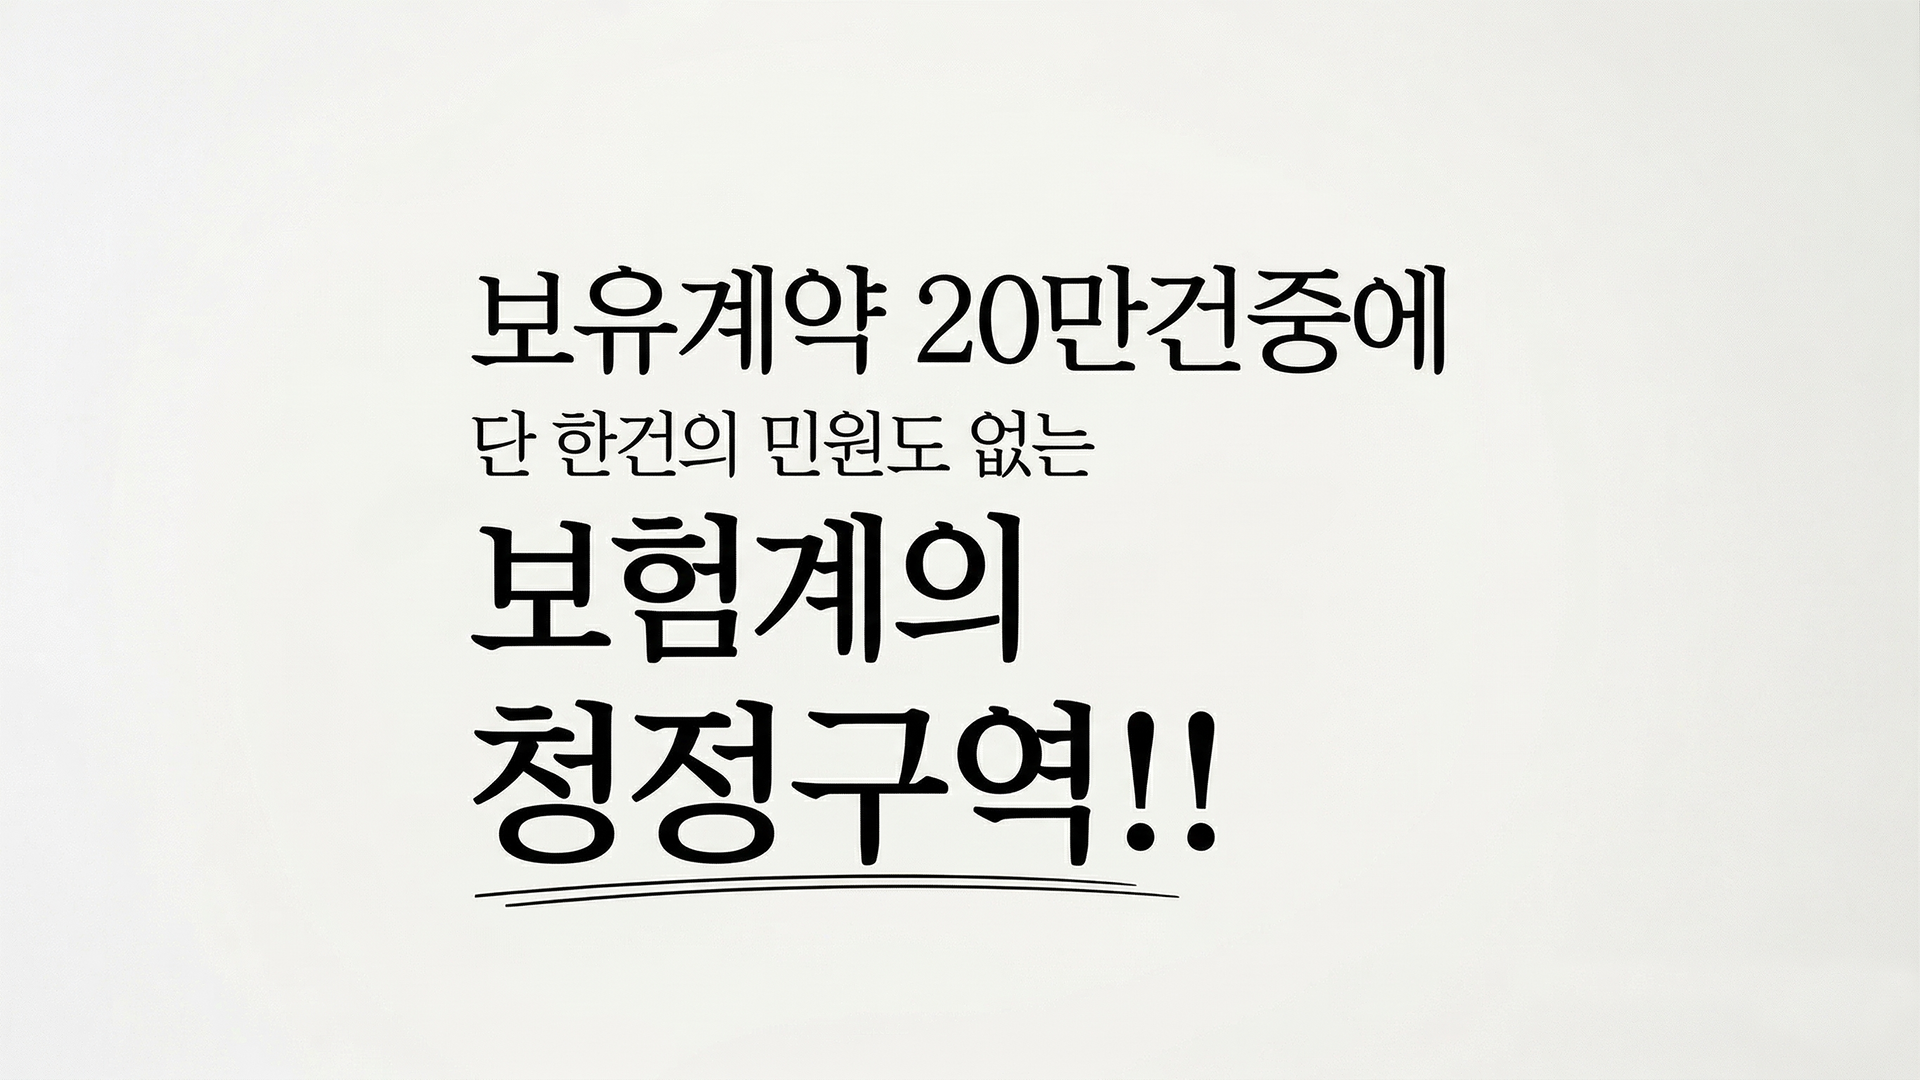
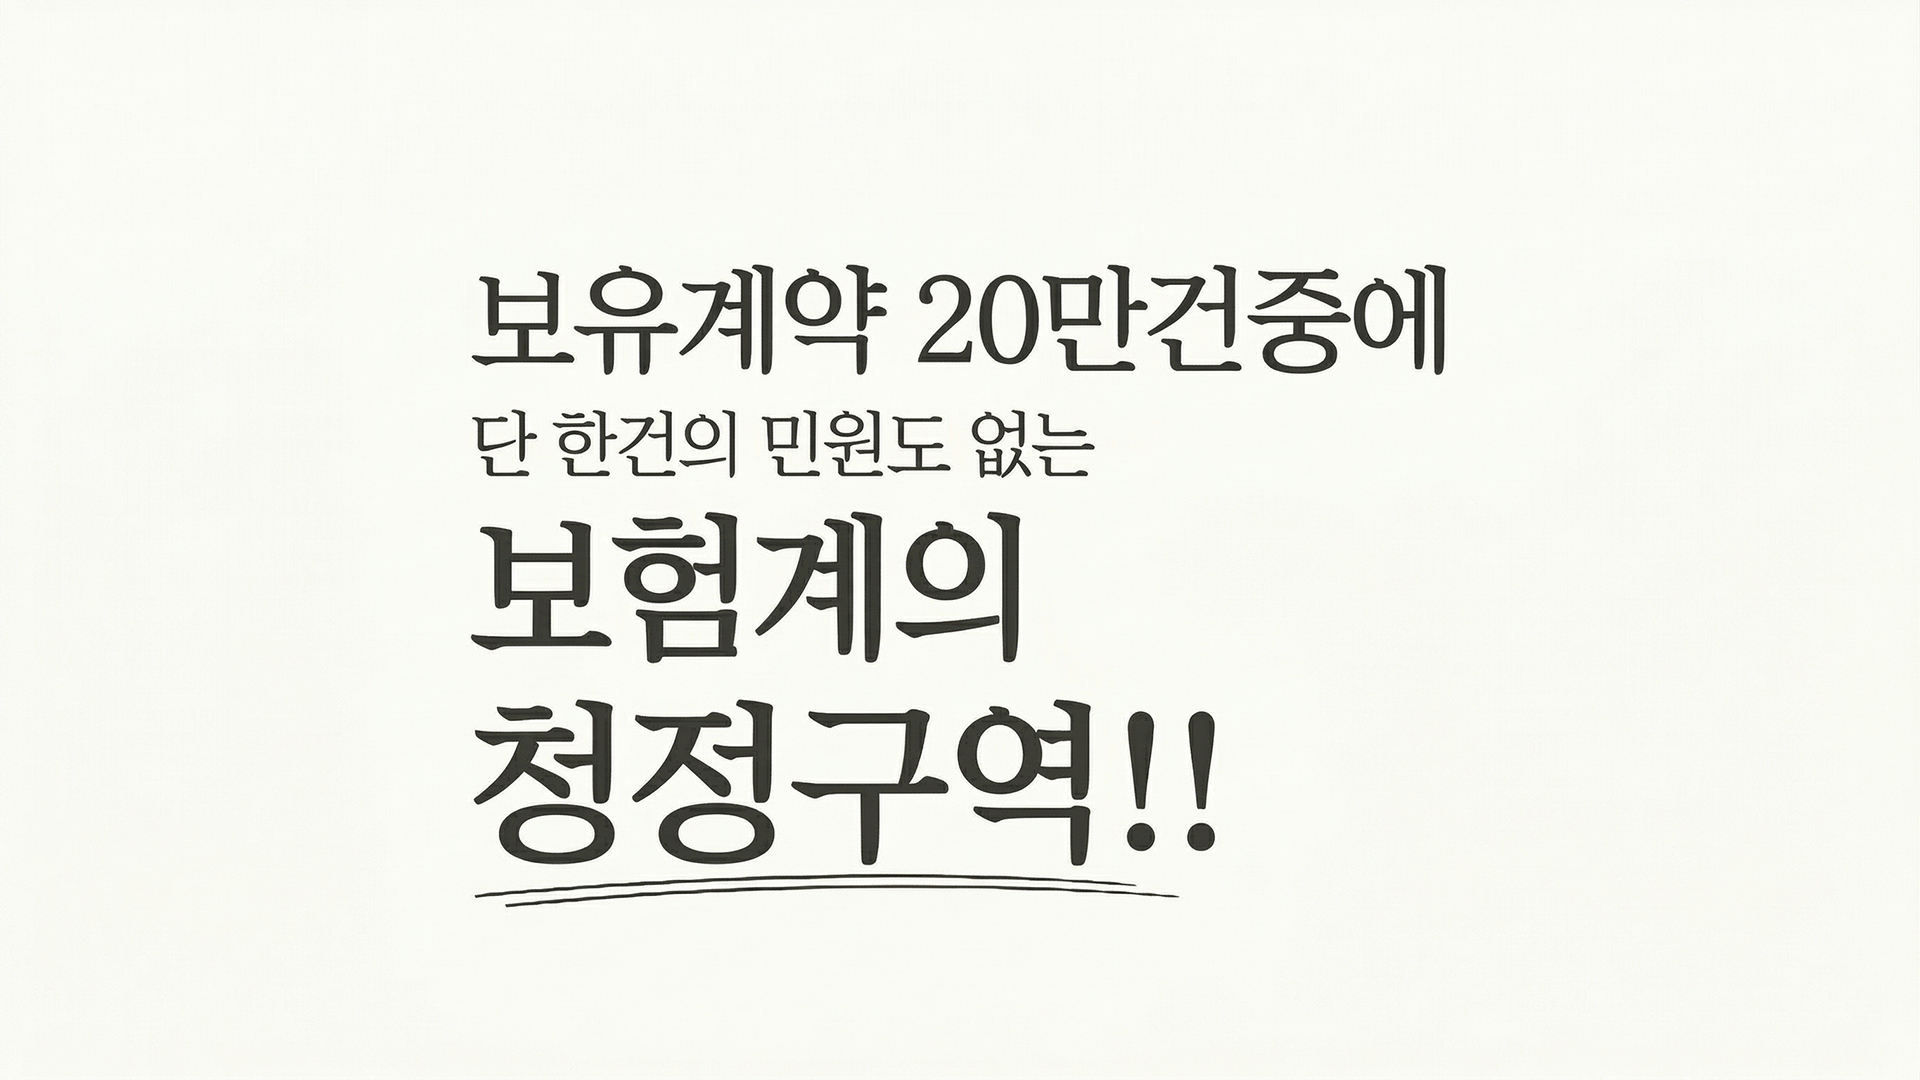
완성

diff --git a/index.html b/index.html
@@ -42,8 +42,8 @@
     <section class="sect sect0_1">
         <div class="inner">
             <div class="wrap">
-                <h2>16만명이 선택한 이유</h2>
-                <p class="red">유튜브에서 확인하세요</p>
+                <h2>16만명이 <span class="red">초특급</span>을 선택한 이유</h2>
+                <p><b class="red">보험왕 초특급</b>유튜브에서 확인하세요</p>
             </div>
         </div>
         <a href="https://www.youtube.com/@insking72"> <img src="./img/sect0_1_pcimg.png" alt="0_1" class="pimg"></a>
@@ -52,8 +52,8 @@
     <section class="sect sect0_2">
         <div class="inner">
             <div class="wrap">
-                <h2>이런 고민 있으시죠?</h2>
-                <p class="red">영상에서 답을 찾으세요</p>
+                <h2>이런 고민 있으시죠??</h2>
+                <p class="red"><b>영상에서 해답을 찾으세요!!</b></p>
             </div>
             <div class="video_wrap">
                 <div class="video_box"> <video src="./video/[보험왕 초특급] 사망보험금이 필요할 땐 정기보험!!.mp4" controls autoplay muted
@@ -81,7 +81,6 @@
         <img src="./img/sect0_3pc.png" alt="sect0_3PC" class="pimg">
         <img src="./img/sect0_3M.png" alt="sect0_3M" class="mimg">
     </section>
-
     <section class="sect sect3">
         <div class="inner">
             <h2><span class="red">초특급</span>은 끝까지 받아냅니다!!</h2>
@@ -89,7 +88,6 @@
                 playsinline></video>
         </div>
     </section>
-
     <section class="sect sect0_4">
         </div>
         <img src="./img/sect0_4pc.png" alt="sect0_4PC" class="pimg">

diff --git a/main.css b/main.css
@@ -11,6 +11,18 @@
     text-align: center;
 }
 
+.wrap p {
+    font-size: 24px;
+
+}
+
+h2 {
+    font-weight: bold;
+    font-size: 48px;
+}
+
+.wrap p {}
+
 .video_wrap {
     padding: 64px 0px;
     display: flex;
@@ -118,11 +130,8 @@
 
 .sect5 {}
 
-/* =================================== */
-h2 {
-    font-size: 44px;
-    /* font-family: 'Do Hyeon', sans-serif; */
-}
+
+
 
 /* =================================== */
 .btn_wrap {
